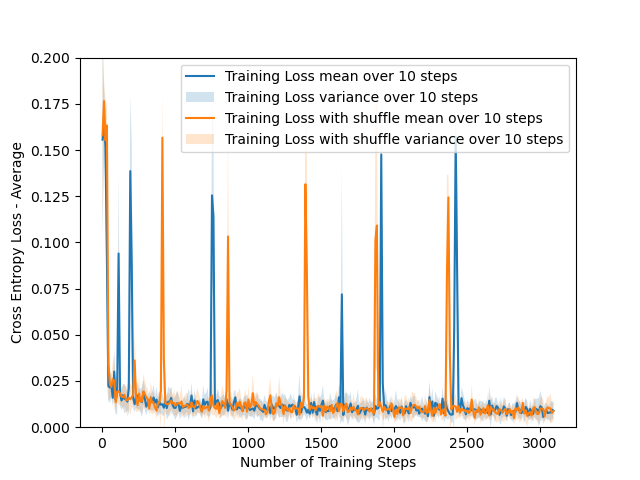
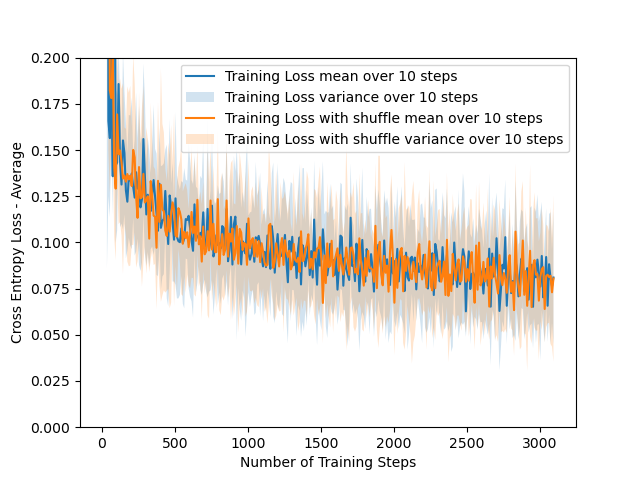
task2_fixed

Changed region(s): [[0.1562, 0.125, 0.875, 0.875]]

diff --git a/assignment1/task2a.py b/assignment1/task2a.py
@@ -33,7 +33,7 @@ def cross_entropy_loss(targets: np.ndarray, outputs: np.ndarray) -> float:
         f"Targets shape: {targets.shape}, outputs: {outputs.shape}"
     
     epsilon = 1e-15 
-    return -np.mean(targets*np.log(outputs+epsilon)+(1-targets)*np.log(1-outputs+epsilon))/100
+    return -np.mean(targets*np.log(outputs+epsilon)+(1-targets)*np.log(1-outputs+epsilon))
         
 
 
@@ -72,7 +72,7 @@ class BinaryModel:
         assert self.grad.shape == self.w.shape,\
             f"Grad shape: {self.grad.shape}, w: {self.w.shape}"
         
-        self.grad = np.transpose(-(targets - outputs).T @ X)
+        self.grad = np.transpose(-(targets - outputs).T @ X)/X.shape[0]
         
     def zero_grad(self) -> None:
         self.grad = None
